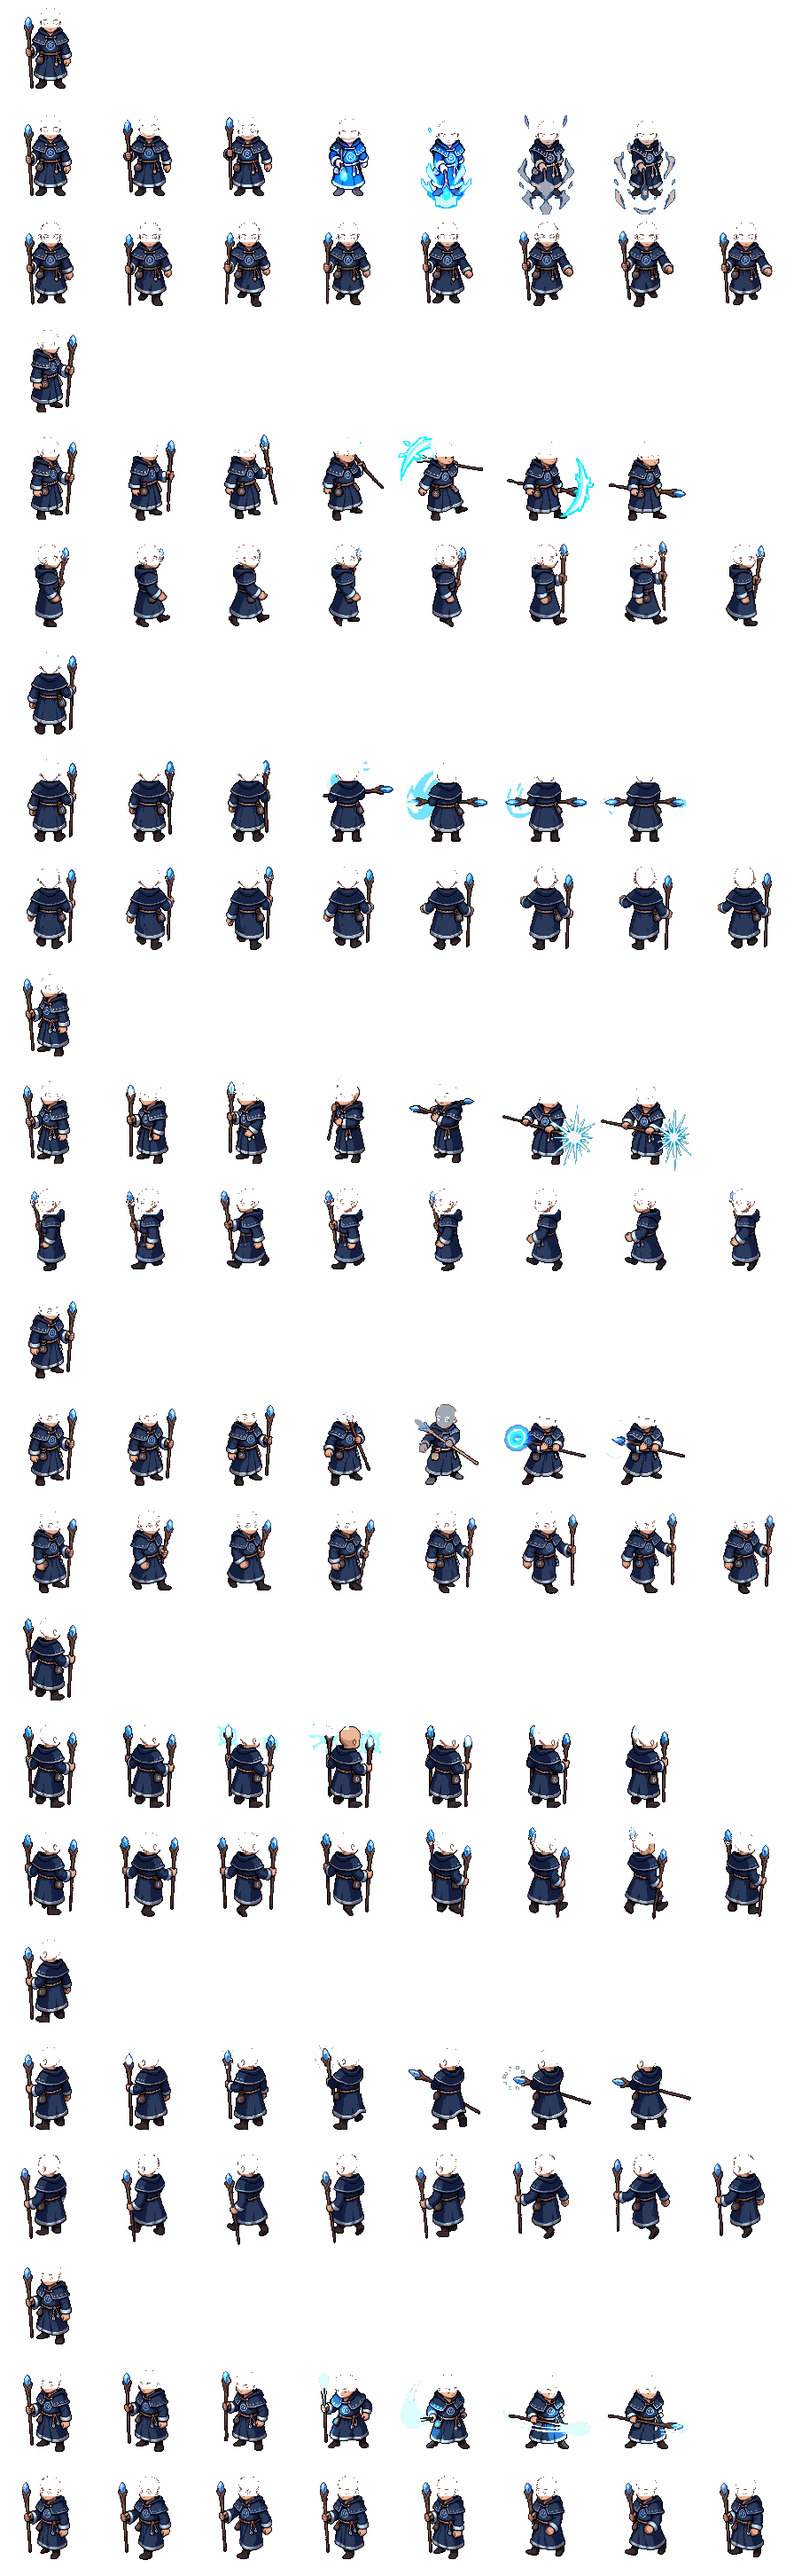
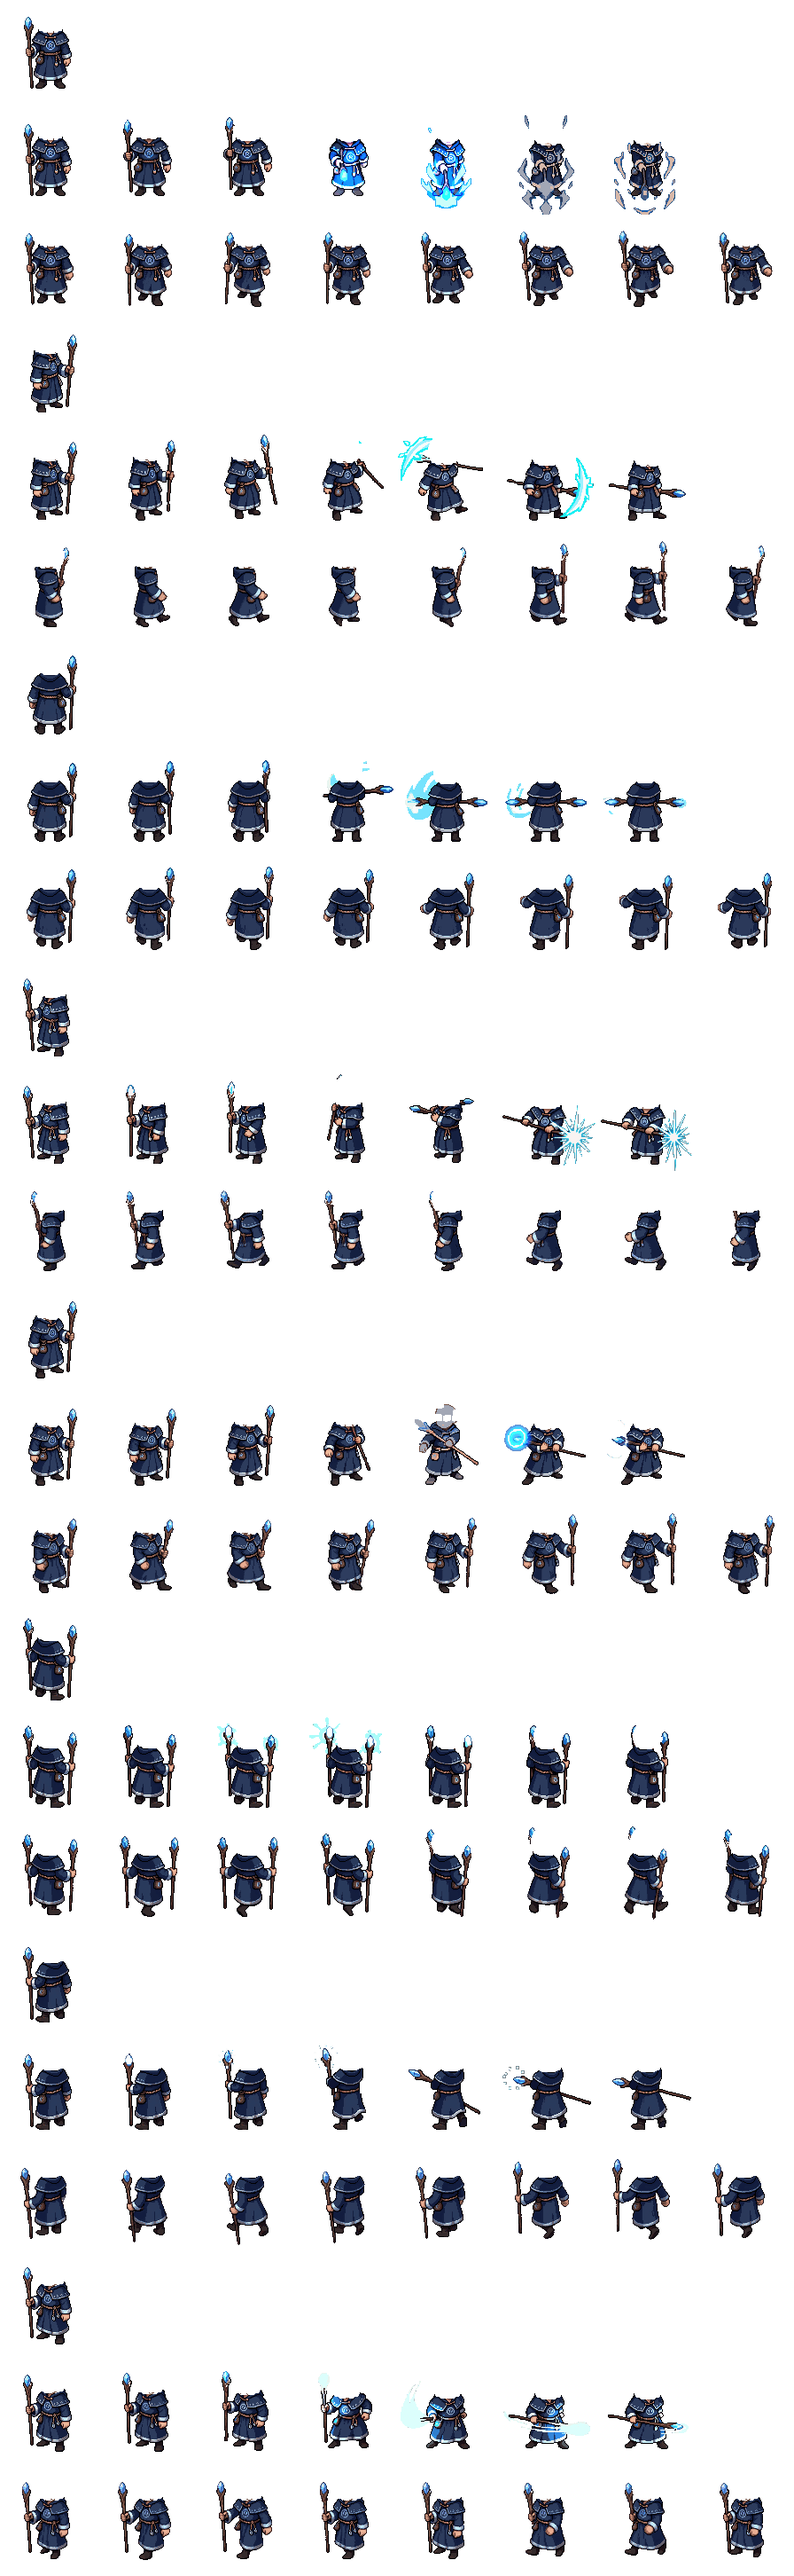
The shared bald head sits on every job's collar, the same size on all
Bodies made bald now find their head as the biggest patch of skin, so a staff or spell effect
beside it is no longer measured instead (the Sorcerer's north-east frames). The cut also takes
what was left of the old head's outline and eyes, and each frame records its seat, the top of
the collar, where the shared head's chin now goes instead of floating above it. The head is one
fixed size on every standard body. The Flower Wreath rests on the head again.

Claude-Session: https://claude.ai/code/session_011XQ9QCw3CGEUAN2nqYKZsD

Changed region(s): [[0.4062, 0.6508, 0.4688, 0.6818]]

diff --git a/src/player.js b/src/player.js
@@ -4,6 +4,8 @@ import { playerAttack } from './rules.js';
 import { HeadLayer } from './headgear.js';
 import { HEADS, headTexture } from './hair.js';
 
+const HEAD_SCALE = 0.78; // the standard head on a standard body (94 pixels tall): body pixels per head pixel
+
 const BASE_SPEED = 4.2;  // world units per second
 const RADIUS = 0.3;      // collision radius
 const HEIGHT = 1.38;     // standing height in world units
@@ -98,11 +100,13 @@ export class Player {
   setHeadgear(top, face) { this.heads[0].set(top); this.heads[1].set(face); }
   setLook(look) { this.look = { ...this.look, ...look }; }
 
-  // body pixels per head pixel: a body made bald (the character standard) measures its own skull,
-  // an older one measured its hair, so the bald head fills a little less of it
+  // body pixels per head pixel. Bodies made to the character standard are all the same height, so
+  // the head is the same size on every job (a little big, like Ragnarok's); an older body sizes it
+  // to the head it was drawn with
   setHeadScale(art) {
     const h = art.anims.down.idle[0].userData.head, d = HEADS?.dirs?.down;
-    if (h && d) this.headScale = ((h.neck - h.crown) / (d.chin[1] - d.crown)) * (art.bald ? 1.12 : 1.0); // a little big, like Ragnarok's heads
+    if (art.bald) this.headScale = HEAD_SCALE * (art.body[1] / 94);
+    else if (h && d) this.headScale = (h.neck - h.crown) / (d.chin[1] - d.crown);
   }
 
   // a different sprite set (the Novice and the Swordsman look different)
@@ -318,7 +322,8 @@ export class Player {
     const { fw, fh } = this.art, { cw, ch } = HEADS, S = this.headScale, upp = body.scale.x / fw;
     const [ax, ay] = hd.chin;
     const HW = cw * S * upp, HH = ch * S * upp;
-    const dx = (h.x / fw - 0.5) * body.scale.x, dy = (1 - h.neck / fh - body.center.y) * body.scale.y;
+    const seat = h.seat + 1; // the chin overlaps the collar a pixel
+    const dx = ((h.x + 0.5) / fw - 0.5) * body.scale.x, dy = (1 - seat / fh - body.center.y) * body.scale.y;
     for (const [spr, tex] of [[this.headSpr, head], [this.hairSpr, hair]]) {
       if (!tex) { spr.visible = false; continue; }
       if (spr.material.map !== tex) { if (!spr.material.map) spr.material.needsUpdate = true; spr.material.map = tex; }
@@ -329,10 +334,10 @@ export class Player {
       spr.material.rotation = this.mat.rotation; // lying down (fainted, Play Dead) turns the head with the body
       spr.visible = body.visible;
     }
-    const at = (x, y) => [h.x + (x - ax) * S, h.neck + (y - ay) * S];
+    const at = (x, y) => [h.x + 0.5 + (x - ax) * S, seat + (y - ay) * S];
     const eyes = [];
     for (let i = 0; i < hd.eyes.length; i += 2) eyes.push(...at(hd.eyes[i], hd.eyes[i + 1]));
-    return { x: h.x, crown: h.neck - (ay - hd.crown) * S, neck: h.neck, w: hd.w * S, eyes, sprite: this.headSpr };
+    return { x: h.x + 0.5, crown: seat - (ay - hd.crown) * S, neck: seat, w: hd.w * S, eyes, sprite: this.headSpr };
   }
 
   // carry out the current order: walk the path, swing at a target in reach, or arrive somewhere

diff --git a/src/sprites.js b/src/sprites.js
@@ -444,7 +444,7 @@ function pixelSet(url, { fw, fh, body, foot = 0, hair = [], anims, bald = false 
   for (const [dir, list] of Object.entries(anims)) {
     set.anims[dir] = {};
     set.flash[dir] = {};
-    for (const [anim, [row, n, feet, heads]] of Object.entries(list)) {
+    for (const [anim, [row, n, feet, heads, seats]] of Object.entries(list)) {
       set.anims[dir][anim] = [];
       set.flash[dir][anim] = [];
       const anchor = feet ? at([...feet].sort((a, b) => a - b)[feet.length >> 1]) : set.anchor;
@@ -452,7 +452,8 @@ function pixelSet(url, { fw, fh, body, foot = 0, hair = [], anims, bald = false 
         const t = blank(), f = blank();
         t.userData.anchor = f.userData.anchor = anchor;
         // where the head is in this frame (frame pixels), for headgear: { x, crown, neck, w, eyes: [x, y, ...] }
-        if (heads?.[i]) t.userData.head = f.userData.head = { x: heads[i][0], crown: heads[i][1], neck: heads[i][2], w: heads[i][3], eyes: heads[i].slice(4) };
+        // and, on a body made bald, its seat: the top of the collar, where the bald head's chin goes
+        if (heads?.[i]) t.userData.head = f.userData.head = { x: heads[i][0], crown: heads[i][1], neck: heads[i][2], w: heads[i][3], eyes: heads[i].slice(4), seat: seats?.[i] ?? heads[i][2] };
         set.anims[dir][anim].push(t);
         set.flash[dir][anim].push(f);
         cuts.push([t, f, i * fw, row * fh]);

diff --git a/src/headgear.js b/src/headgear.js
@@ -28,7 +28,7 @@ export const TUNE = {
   horned_helm: { w: 1.02, at: 0.42, hair: 0.4 },   // a full helm: the hair above the rim goes
   woven_cap: { w: 1.08, at: 0.36, hair: 0.34 },
   ember_crown: { at: 0.12, w: 0.92, hair: 0.06, swap: { right: 'downright', left: 'downleft' } }, // sits on the hair; its side views are poor
-  flower_wreath: { at: 0.1, w: 1.0, hair: 0 }, // rests on top of the hair
+  flower_wreath: { at: 0.3, w: 1.0, hair: 0 }, // rests on top of the hair
   // face pieces: their views come from the front (see pack-headgear.py); turning moves them toward
   // the front of the face
   round_glasses: { w: 0.62, at: 0.74 }, // on the eyes when the packer found them; this is the fallback

diff --git a/build-tools/pack-sprites.py b/build-tools/pack-sprites.py
@@ -153,6 +153,51 @@ def strip_head(f, h, keep, hair):
     return f
 
 
+def strip_bald(f, h, keep, hair):
+    """strip_head for a body made bald, which has nothing but its head above the neck: also what's
+    left of the head's outline and eyes (pixels within two of the removed skin, above the neck) and
+    small specks around it. Returns the frame and its seat: the top of the collar under the head,
+    where the head's chin goes."""
+    cx, crown, neck, w = h[:4]
+    out = strip_head(f, h, keep, hair)
+    a, px = f.getchannel('A').load(), out.load()
+    gone = {(x, y) for y in range(f.height) for x in range(f.width) if a[x, y] > 128 and px[x, y][3] <= 128}
+    ex, ey, rx, ry = cx + 0.5, (crown + neck) / 2 - 1, w / 2 + 5, (neck - crown) / 2 + 7
+    region = lambda x, y: ((x - ex) / rx) ** 2 + ((y - ey) / ry) ** 2 <= 1
+    for _ in range(2):
+        drop = [(x, y) for y in range(max(0, crown - 12), neck) for x in range(max(0, int(cx - w)), min(f.width, int(cx + w + 1)))
+                if px[x, y][3] > 128 and region(x, y) and any((x + i, y + j) in gone for i in (-1, 0, 1) for j in (-1, 0, 1))]
+        for p in drop:
+            px[p] = (0, 0, 0, 0)
+            gone.add(p)
+    # specks: little islands left inside the head's region
+    solid = {(x, y) for y in range(max(0, crown - 12), min(f.height, neck + 3)) for x in range(max(0, int(cx - w)), min(f.width, int(cx + w + 1))) if px[x, y][3] > 128}
+    seen = set()
+    for p in solid:
+        if p in seen:
+            continue
+        g, stack, edge = [], [p], False
+        seen.add(p)
+        while stack:
+            q = stack.pop()
+            g.append(q)
+            for i in (-1, 0, 1):
+                for j in (-1, 0, 1):
+                    n = (q[0] + i, q[1] + j)
+                    if n in solid and n not in seen:
+                        seen.add(n)
+                        stack.append(n)
+                    elif n not in solid and 0 <= n[0] < f.width and 0 <= n[1] < f.height and px[n][3] > 128:
+                        edge = True  # joined to the body outside the region looked at
+        if not edge and len(g) < 8 and all(region(*q) for q in g):
+            for q in g:
+                px[q] = (0, 0, 0, 0)
+    # the seat: the highest body pixel under the middle of the head
+    tops = [next((y for y in range(neck - 1, min(f.height, neck + 9)) if px[x, y][3] > 128), None) for x in range(int(cx) - 2, int(cx) + 3)]
+    tops = [t for t in tops if t is not None]
+    return out, (min(tops) if tops else neck)
+
+
 def load(name, eight=False, prefer=(), skip=()):
     base = os.path.join(SRC, name)
     meta = json.load(open(os.path.join(base, 'metadata.json')))
@@ -223,6 +268,10 @@ def pack(name, opts):
         gs = islands(f)
         if not gs:
             return [fw // 2, 0, 0, 0]
+        if opts.get('bald'):
+            h = skull(f, d, min(y for _, y in gs[0]))
+            if h:
+                return h
         solid = set(gs[0])
         top = min(y for _, y in solid)
         # follow the head down row by row, keeping only the run of pixels around its centre, so a
@@ -257,6 +306,48 @@ def pack(name, opts):
         top_rows = [y for y in range(crown, crown + max(3, int(bh * 0.18))) if y in runs and y < neck]
         cx = sum(runs[y][0] + runs[y][1] for y in top_rows) / (2 * len(top_rows))
         return [round(cx), crown, neck, mw, *eyes(f, runs, crown, neck, d)]
+
+    # a bald body's head: the biggest patch of skin in the top half of the body (a staff, a sword or
+    # a spell effect beside the head isn't skin). Its outline is a pixel around it; the neck is its
+    # narrowest row under the face.
+    def skull(f, d, top):
+        px = f.load()
+        lum = lambda c: 0.3 * c[0] + 0.59 * c[1] + 0.11 * c[2]
+        skin = lambda c: c[3] > 128 and c[0] > 150 and c[0] >= c[1] >= c[2] - 10 and lum(c) >= 110
+        dark = lambda c: c[3] > 128 and lum(c) < 110
+        lim = min(f.height, top + int(bh * 0.5))
+        pts = {(x, y) for y in range(top, lim) for x in range(fw) if skin(px[x, y])}
+        best, seen = [], set()
+        for p in pts:
+            if p in seen:
+                continue
+            g, stack = [], [p]
+            seen.add(p)
+            while stack:
+                q = stack.pop()
+                g.append(q)
+                for n in ((q[0] + 1, q[1]), (q[0] - 1, q[1]), (q[0], q[1] + 1), (q[0], q[1] - 1)):
+                    # the eyes and brows are inside the face: step over dark pixels to the skin past them
+                    if n in pts and n not in seen:
+                        seen.add(n)
+                        stack.append(n)
+            if len(g) > len(best):
+                best = g
+        if len(best) < bh * 2:
+            return None
+        rows = {}
+        for x, y in best:
+            lo, hi = rows.get(y, (x, x))
+            rows[y] = (min(lo, x), max(hi, x))
+        ys = sorted(rows)
+        crown, bottom = ys[0] - 1, ys[-1]
+        width = lambda y: rows[y][1] - rows[y][0] + 1
+        w = max(width(y) for y in ys) + 2
+        top_rows = ys[:max(3, len(ys) * 2 // 5)]
+        cx = sum(rows[y][0] + rows[y][1] for y in top_rows) / (2 * len(top_rows))
+        low = [y for y in ys if y >= crown + (bottom - crown) * 0.6]
+        neck = min(low, key=lambda y: (width(y), -y)) if low else bottom
+        return [round(cx), crown, neck, w, *eyes(f, {y: rows[y] for y in ys}, crown, neck, d)]
 
     # the eyes: the dark shapes inside the skin of the face, below the fringe (face pieces sit on
     # them). Each row's skin span is found, the dark pixels inside it are collected, and grouped by
@@ -312,7 +403,11 @@ def pack(name, opts):
         hs = [head(f, d) for f in frames]
         mw = mw or sorted(h[3] for h in hs)[len(hs) // 2]
         mid = sorted(hs, key=lambda h: h[1])[len(hs) // 2]
-        return [[h[0], h[1], h[2], mw, *h[4:]] if h[3] <= mw * 1.3 else [mid[0], mid[1], mid[2], mw, *mid[4:]] for h in hs]
+        # a head far from the animation's middle (a spell effect or a staff measured instead) borrows
+        # the nearest frame's that is in place
+        ok = [h[3] <= mw * 1.3 and abs(h[0] - mid[0]) <= mw * 0.5 and abs(h[2] - mid[2]) <= mw * 0.4 for h in hs]
+        near = lambda i: hs[min((j for j in range(len(hs)) if ok[j]), key=lambda j: abs(j - i), default=None)] if any(ok) else mid
+        return [[h[0], h[1], h[2], mw, *h[4:]] if ok[i] else [*near(i)[:3], mw, *near(i)[4:]] for i, h in enumerate(hs)]
 
     rows, layout = [], {}
     for d in art:
@@ -347,8 +442,13 @@ def pack(name, opts):
     if opts.get('strip'):  # Ragnarok-style body: the head comes off, its anchors stay
         keep = body_colours(art, box, layout) - {tuple(c) for c in hair}
         for d in layout:
-            for anim, (r, n, _, hs) in layout[d].items():
-                rows[r] = [strip_head(f, h, keep, hair) for f, h in zip(rows[r], hs)]
+            for anim, (r, n, _, hs, *_) in layout[d].items():
+                if opts.get('bald'):  # each frame also records its seat, for the head's chin
+                    done = [strip_bald(f, h, keep, hair) for f, h in zip(rows[r], hs)]
+                    rows[r] = [f for f, _ in done]
+                    layout[d][anim].append([s for _, s in done])
+                else:
+                    rows[r] = [strip_head(f, h, keep, hair) for f, h in zip(rows[r], hs)]
     cols = max(len(r) for r in rows)
     sheet = Image.new('RGBA', (cols * fw, len(rows) * fh))
     for y, r in enumerate(rows):

diff --git a/docs/character-standard.md b/docs/character-standard.md
@@ -11,7 +11,9 @@ Back to front, in every frame:
    `strip`) cuts the head off every frame and keeps its anchor: the neck point, plus the head's
    size in that frame.
 2. **Head.** One bald head with the standard face, shared by every job (`src/art/heads.png`, row
-   `bald`). It sits on the body's neck anchor.
+   `bald`), the same size on every standard body. Its chin sits on the body's seat: the top of the
+   collar under the old head, recorded per frame. The packer finds a bald body's head as its
+   biggest patch of skin, so a staff, sword or spell beside the head isn't mistaken for it.
 3. **Hair.** The hairstyle, its own layer on the head (`heads.png`, one row per style), recoloured
    by a dye. Like Ragnarok, the hairstyle stays the same through job changes; Embla the Stylist
    in Steinborg changes it.
